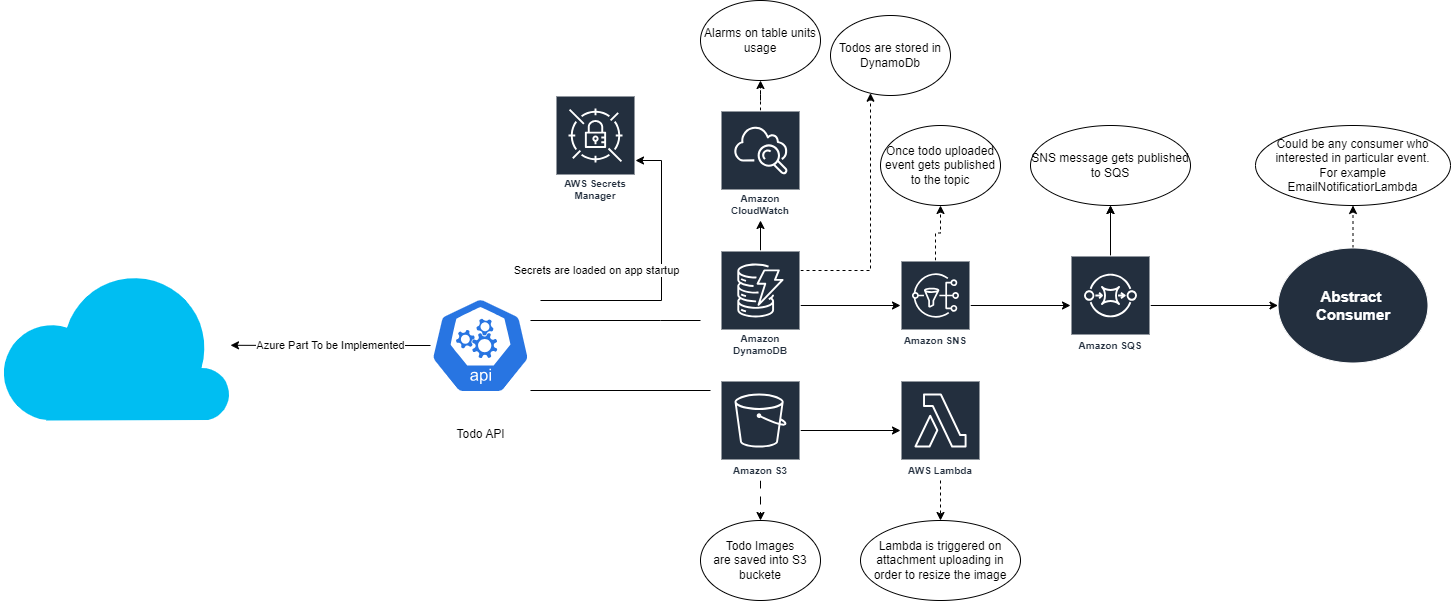
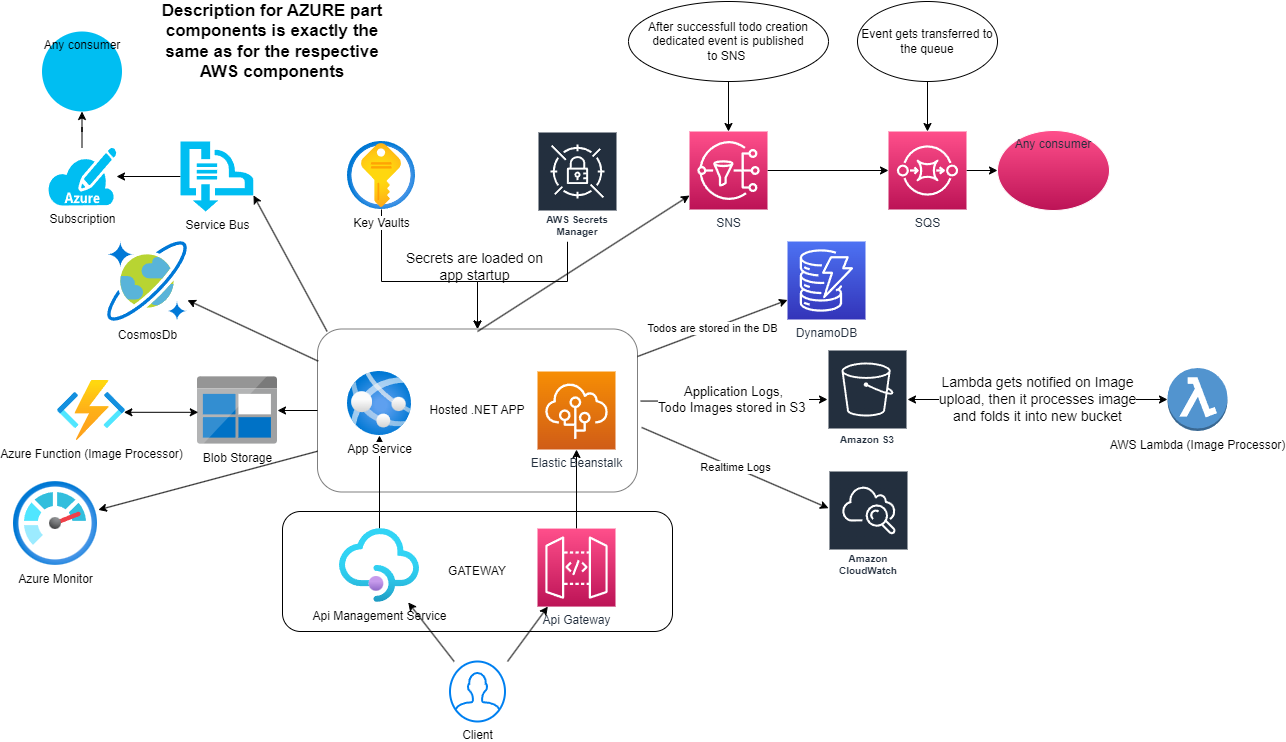
Update readme

diff --git a/TodoApi.Infrastructure/DependencyInjection.cs b/TodoApi.Infrastructure/DependencyInjection.cs
@@ -41,13 +41,10 @@ namespace TodoApi.Infrastructure
             var configuration = configurationBuilder.Build();
             if (appSettings.EnvironmentType.ToString().StartsWith(EnvironmentType.AWS.ToString()))
             {
-                var credentialsService = serviceCollection.BuildServiceProvider().GetRequiredService<ICredentialsService>();
-                var credentials = credentialsService.GetCredentials();
                 serviceCollection.AddSingleton<IAmazonS3, AmazonS3Client>();
-                serviceCollection.AddS3Service(credentials);
-                serviceCollection.AddDynamoDbServices(credentials);
-                serviceCollection.AddSnsServices(credentials, configuration);
-                configurationBuilder.AddAwsSecretsServices(credentials);
+                serviceCollection.AddS3Service();
+                serviceCollection.AddDynamoDbServices();
+                serviceCollection.AddSnsServices(configuration);
             }
             else
             {
@@ -59,29 +56,28 @@ namespace TodoApi.Infrastructure
             return serviceCollection;
         }
 
-        public static IServiceCollection AddS3Service(this IServiceCollection serviceCollection, AWSCredentials credentials)
+        public static IServiceCollection AddS3Service(this IServiceCollection serviceCollection)
         {
 
             var config = new AmazonS3Config
             {
                 RegionEndpoint = Amazon.RegionEndpoint.EUWest2,
             };
-            var awsS3Client = new AmazonS3Client(credentials, config);
+            var awsS3Client = new AmazonS3Client(config);
             serviceCollection.AddSingleton<IAmazonS3>(awsS3Client);
             serviceCollection.AddSingleton<S3FileService>();
 
             return serviceCollection;
         }
 
-        public static IServiceCollection AddSnsServices(this IServiceCollection serviceCollection, AWSCredentials credentials,
-            IConfiguration configuration)
+        public static IServiceCollection AddSnsServices(this IServiceCollection serviceCollection, IConfiguration configuration)
         {
 
             var config = new AmazonSimpleNotificationServiceConfig
             {
                 RegionEndpoint = Amazon.RegionEndpoint.EUWest2
             };
-            var awsS3Client = new AmazonSimpleNotificationServiceClient(credentials, config);
+            var awsS3Client = new AmazonSimpleNotificationServiceClient(config);
             serviceCollection.AddSingleton<IAmazonSimpleNotificationService>(awsS3Client);
             serviceCollection.AddSingleton<AwsMessagePublisherService>();
             serviceCollection.Configure<AwsSnsOptions>(configuration.GetSection(nameof(AwsSnsOptions)));
@@ -90,15 +86,14 @@ namespace TodoApi.Infrastructure
             return serviceCollection;
         }
 
-        public static IServiceCollection AddSQSServices(this IServiceCollection serviceCollection, AWSCredentials credentials,
-           IConfiguration configuration)
+        public static IServiceCollection AddSQSServices(this IServiceCollection serviceCollection, IConfiguration configuration)
         {
 
             var config = new AmazonSQSConfig
             {
                 RegionEndpoint = Amazon.RegionEndpoint.EUWest2
             };
-            var awsS3Client = new AmazonSQSClient(credentials, config);
+            var awsS3Client = new AmazonSQSClient(config);
             serviceCollection.AddSingleton<IAmazonSQS>(awsS3Client);
             serviceCollection.AddSingleton<AwsMessageConsumerService>();
             serviceCollection.Configure<SqsOptions>(configuration.GetSection(nameof(SqsOptions)));
@@ -113,7 +108,7 @@ namespace TodoApi.Infrastructure
             return serviceCollection;
         }
 
-        public static IServiceCollection AddDynamoDbServices(this IServiceCollection serviceCollection, AWSCredentials credentials)
+        public static IServiceCollection AddDynamoDbServices(this IServiceCollection serviceCollection)
         {
             serviceCollection.AddSingleton<IAmazonDynamoDB>(sp =>
             {
@@ -121,7 +116,7 @@ namespace TodoApi.Infrastructure
                 {
                     RegionEndpoint = Amazon.RegionEndpoint.EUWest2
                 };
-                return new AmazonDynamoDBClient(credentials, config);
+                return new AmazonDynamoDBClient(config);
             });
             serviceCollection.AddSingleton<TodoRepositoryDynamoDb>();
 
@@ -160,14 +155,9 @@ namespace TodoApi.Infrastructure
             return builder;
         }
 
-        public static IConfigurationBuilder AddAwsSecretsServices(this IConfigurationBuilder builder, AWSCredentials credentials)
+        public static IConfigurationBuilder AddAwsSecretsServices(this IConfigurationBuilder builder)
         {
-            var config = new AmazonSecretsManagerConfig
-            {
-                RegionEndpoint = Amazon.RegionEndpoint.EUWest2
-            };
-
-            var configurationSource = new AmazonConfigurationSource(config, credentials);
+            var configurationSource = new AmazonConfigurationSource();
             builder.Add(configurationSource);
 
             return builder;

diff --git a/TodoApi/Program.cs b/TodoApi/Program.cs
@@ -17,21 +17,28 @@ public class Program
 
         var currentEnv = Environment.GetEnvironmentVariable("ASPNETCORE_ENVIRONMENT");
         var appSettings = new AppSettings();
+        if (!Enum.TryParse(typeof(EnvironmentType), currentEnv, true, out var environmentType))
+        {
+            throw new ApplicationException("Cannot parse environment type");
+        }
+        appSettings.EnvironmentType = (EnvironmentType)environmentType;
         builder.Configuration.AddJsonFile($"appsettings.{currentEnv}.json", true).AddUserSecrets(typeof(Program).Assembly);
 
         logger.LogInformation($"Application configuration {currentEnv}");
 
         if (!builder.Environment.IsLocal())
         {
-            builder.Configuration.AddKeyVaultServices();
+            if(appSettings.EnvironmentType == EnvironmentType.AWS)
+            {
+                builder.Configuration.AddAwsSecretsServices();
+            }
+            else
+            {
+                builder.Configuration.AddKeyVaultServices();
+            }
         }
 
-        if (!Enum.TryParse(typeof(EnvironmentType), currentEnv, true, out var environmentType))
-        {
-            throw new ApplicationException("Cannot parse environment type");
-        }
-
-        appSettings.EnvironmentType = (EnvironmentType)environmentType;
+       
         builder.Services.AddSingleton(appSettings);
         builder.Services.AddControllers();
         builder.Services.AddEndpointsApiExplorer();

diff --git a/TodoApi.Infrastructure/ConfigurationProviders/AmazonConfigurationProvider.cs b/TodoApi.Infrastructure/ConfigurationProviders/AmazonConfigurationProvider.cs
@@ -10,12 +10,9 @@ namespace TodoApi.Infrastructure.ConfigurationProviders
 {
 	public class AmazonConfigurationProvider: ConfigurationProvider
 	{
-		private readonly AmazonSecretsManagerConfig _config;
-		private readonly AWSCredentials _credentials;
-		public AmazonConfigurationProvider(AmazonSecretsManagerConfig config, AWSCredentials credentials)
+		public AmazonConfigurationProvider()
 		{
-			_config = config;
-			_credentials = credentials;
+			
 		}
 
         public override void Load()
@@ -34,7 +31,7 @@ namespace TodoApi.Infrastructure.ConfigurationProviders
                 SecretId = $"appsettings.{Environment.GetEnvironmentVariable("ASPNETCORE_ENVIRONMENT")}",
             };
 
-            using (var client = new AmazonSecretsManagerClient(_credentials, _config))
+            using (var client = new AmazonSecretsManagerClient(region: Amazon.RegionEndpoint.EUWest2))
             {
                 var response = client.GetSecretValueAsync(request).GetAwaiter().GetResult();
 

diff --git a/TodoApi.Infrastructure/ConfigurationProviders/AmazonConfigurationSource.cs b/TodoApi.Infrastructure/ConfigurationProviders/AmazonConfigurationSource.cs
@@ -7,17 +7,13 @@ namespace TodoApi.Infrastructure.ConfigurationProviders
 {
 	public class AmazonConfigurationSource: IConfigurationSource
     {
-        private readonly AmazonSecretsManagerConfig _config;
-        private readonly AWSCredentials _credentials;
-        public AmazonConfigurationSource(AmazonSecretsManagerConfig config, AWSCredentials credentials)
+        public AmazonConfigurationSource()
         {
-            _config = config;
-            _credentials = credentials;
         }
 
         public IConfigurationProvider Build(IConfigurationBuilder builder)
         {
-            return new AmazonConfigurationProvider(_config, _credentials);
+            return new AmazonConfigurationProvider();
         }
     }
 }

diff --git a/TodoApi.Infrastructure/Repositories/Aws/TodoRepositoryDynamoDb.cs b/TodoApi.Infrastructure/Repositories/Aws/TodoRepositoryDynamoDb.cs
@@ -102,7 +102,7 @@ namespace TodoApi.Infrastructure.Repositories.Aws
 
         public Task SaveAsync()
         {
-            throw new NotImplementedException();
+            return Task.CompletedTask;
         }
 
         public async Task UpdateAsync(Todo todo)

diff --git a/README.md b/README.md
@@ -8,6 +8,12 @@ It can be configured to use 2 different cloud stacks Azure/AWS depending on envi
 
 ## AWS Configuration
 
+### API Gateway
+![alt text](https://github.com/dimayavorski/TodoApi/blob/main/ReadmeContent/AwsApiGateway.png?raw=true)
+
+### Elastic BeanStalk
+![alt text](https://github.com/dimayavorski/TodoApi/blob/main/ReadmeContent/AwsElasticBeanStalk.png?raw=true)
+
 ### SNS
 ![alt text](https://github.com/dimayavorski/TodoApi/blob/main/ReadmeContent/AwsSNS.png?raw=true)
 
@@ -26,5 +32,33 @@ It can be configured to use 2 different cloud stacks Azure/AWS depending on envi
 ### S3
 ![alt text](https://github.com/dimayavorski/TodoApi/blob/main/ReadmeContent/AwsS3.png?raw=true)
 
-## Notes
-Azure part is going to be implemented during the month
+## Azure Configuration
+
+### Api Management Service
+![alt text](https://github.com/dimayavorski/TodoApi/blob/main/ReadmeContent/AzureApiManagement.png?raw=true)
+
+### App Service
+![alt text](https://github.com/dimayavorski/TodoApi/blob/main/ReadmeContent/AzureAppService.png?raw=true)
+
+### Service Bus Topic
+![alt text](https://github.com/dimayavorski/TodoApi/blob/main/ReadmeContent/AzureServiceBusTopic.png?raw=true)
+
+### Service Bus Topic Subscription
+![alt text](https://github.com/dimayavorski/TodoApi/blob/main/ReadmeContent/AzureServiceBusTopicSubscription.png?raw=true)
+
+### Function (ImageProcessor)
+![alt text](https://github.com/dimayavorski/TodoApi/blob/main/ReadmeContent/AzureFunction.png?raw=true)
+
+### CosmosDb
+![alt text](https://github.com/dimayavorski/TodoApi/blob/main/ReadmeContent/AzureCosmosDb.png?raw=true)
+
+### Key Vaults
+![alt text](https://github.com/dimayavorski/TodoApi/blob/main/ReadmeContent/AzureKeyVault.png?raw=true)
+
+### Blob Storage
+![alt text](https://github.com/dimayavorski/TodoApi/blob/main/ReadmeContent/AzureBlobStorage.png?raw=true)
+
+## Comparison
+Genearally, both cloud providers have mostly the same services.
+As a .NET dev, I find Azure more convinient since it has tight integration with Visual Studion.
+In other hand, AWS seems a bit cheeper than Azure.
